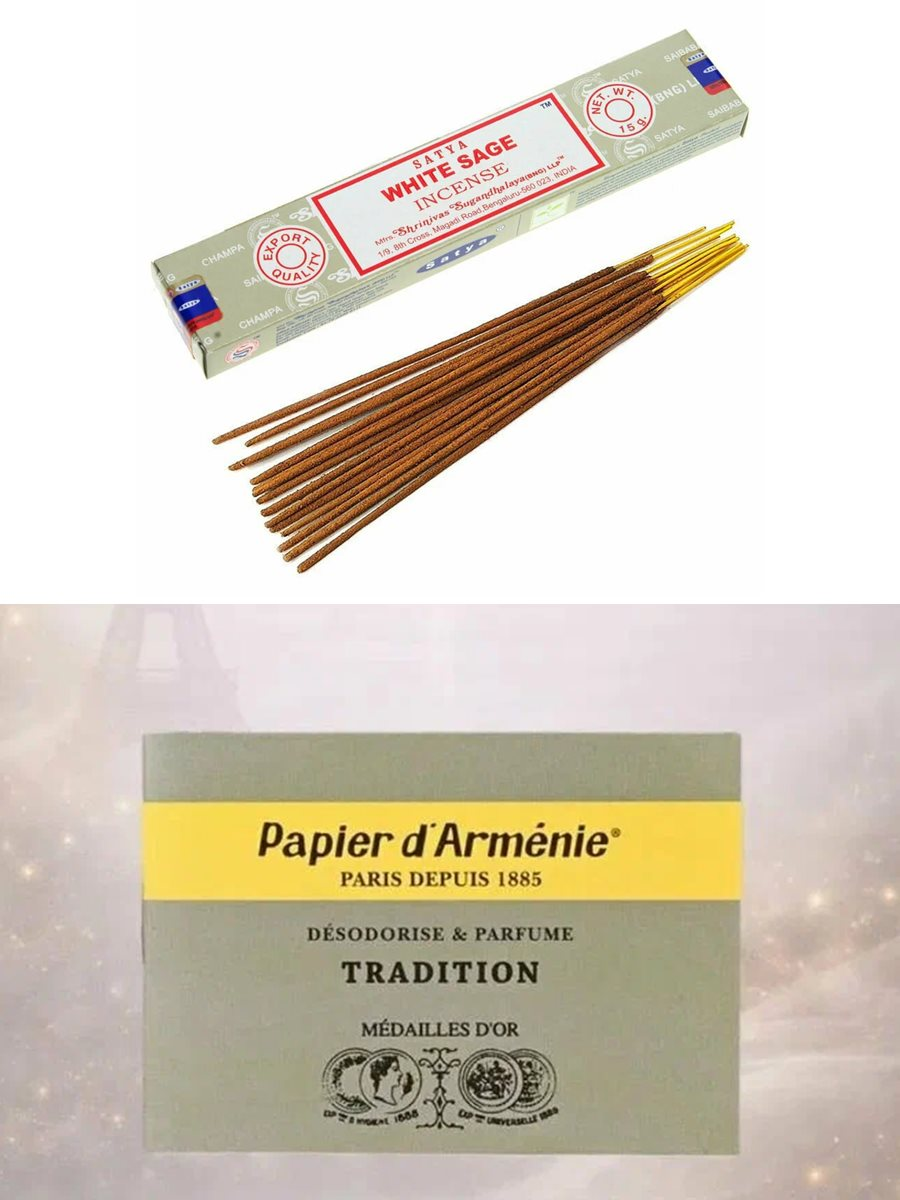
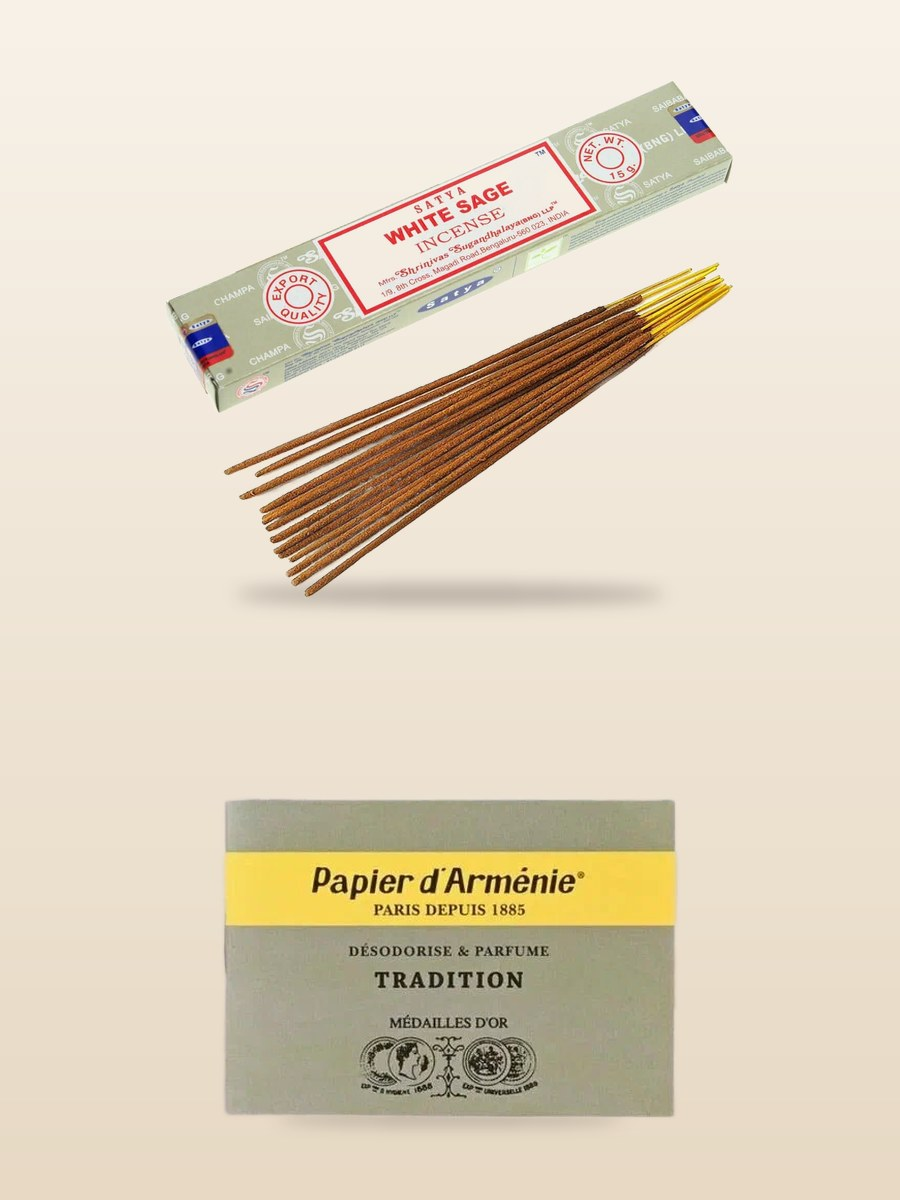
Коллажи на общем фоне: торшеры, лампы, чайные пары, ароматы; стайлер целиком; ароматы без конкретных названий

diff --git a/gifts.js b/gifts.js
@@ -48,7 +48,7 @@ window.GIFTS = [
     description:
       "Тёплый мягкий свет для уютных вечеров с книжкой или сериалом. На фото — варианты для вдохновения: золотая дуга, хрусталь или шары. Напиши в комментарии, какой ближе.",
     emoji: "🛋",
-    image: "images/floor-lamp.jpg",
+    image: "images/floor-lamp.jpg?v=2",
     gradient: "linear-gradient(135deg,#d9cbb0,#4f6378)",
     commentHint: "Торшер: какой из вариантов ближе (или какой хочется)",
   },
@@ -58,7 +58,7 @@ window.GIFTS = [
     description:
       "Мягкий свет у кровати или на рабочем столе. На фото — варианты: хрусталь, волна, умная лампа с Алисой или шары. Напиши в комментарии, какая ближе.",
     emoji: "💡",
-    image: "images/table-lamp.jpg",
+    image: "images/table-lamp.jpg?v=2",
     gradient: "linear-gradient(135deg,#ece3d3,#7a7f8c)",
     commentHint: "Настольная лампа: какой из вариантов ближе (или какая хочется)",
   },
@@ -75,9 +75,9 @@ window.GIFTS = [
     id: "home-scents",
     title: "Ароматы для дома",
     description:
-      "Палочки с белым шалфеем и модная «армянская бумага» из Парижа с тёплым ароматом бензоина и ванили. Для любительницы ароматов — самое то.",
+      "Ароматические палочки и модная «армянская бумага» — чтобы дома всегда пахло уютом. Для любительницы ароматов — самое то.",
     emoji: "🪔",
-    image: "images/home-scents.jpg",
+    image: "images/home-scents.jpg?v=2",
     gradient: "linear-gradient(135deg,#f4f1ea,#c9c6b4)",
   },
   {
@@ -86,7 +86,7 @@ window.GIFTS = [
     description:
       "Тонкий фарфор с золотой каймой — чтобы каждое чаепитие было маленьким праздником. На фото варианты: напиши в комментарии, какой рисунок ближе.",
     emoji: "🫖",
-    image: "images/tea-pairs.jpg",
+    image: "images/tea-pairs.jpg?v=2",
     gradient: "linear-gradient(135deg,#f4f3f6,#cfd9ef)",
     commentHint: "Чайная пара: какой рисунок ближе",
   },
@@ -113,7 +113,7 @@ window.GIFTS = [
     description:
       "Фен и укладка в одном: 7 насадок для локонов, объёма и гладкости, бережно к волосам. Салонная укладка дома и в командировке.",
     emoji: "💇♀",
-    image: "images/styler.jpg",
+    image: "images/styler.jpg?v=2",
     gradient: "linear-gradient(180deg,#d97c4b,#f0a785)",
   },
   {
